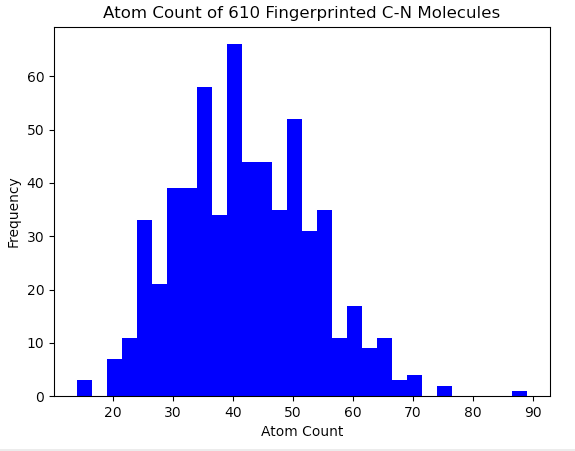
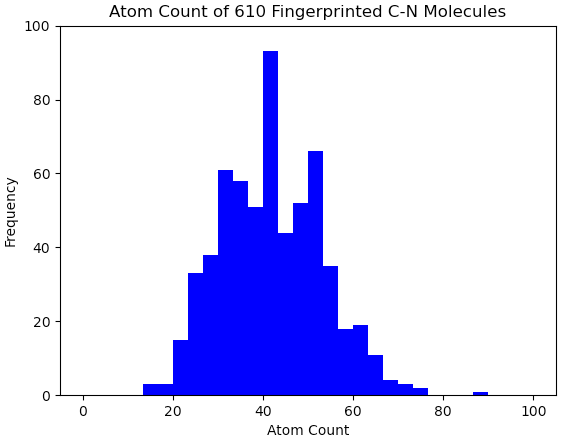
Fixed axes of histograms

Changed region(s): [[0.0, 0.0, 0.9757, 0.9888], [0.5617, 0.6689, 0.6504, 0.7562]]

diff --git a/examples/surrounding_cn_bonds/scripts/cn_histogram.py b/examples/surrounding_cn_bonds/scripts/cn_histogram.py
@@ -31,20 +31,23 @@ def generateHistogram():
     ifs = oechem.oemolistream(args.smiles_database)
     subs = oechem.OESubSearch("[#6:1]-[#7:2]")
     histogram = []
+    mol_count = 0
     for molecule in ifs.GetOEMols():
         mol, status = smiles2oemol(oechem.OEMolToSmiles(molecule))
         if (status):
             if subs.SingleMatch(mol):
+                mol_count = mol_count + 1
                 length = len([atom for atom in mol.GetAtoms()])
                 histogram.append(length)
     title = ""
     colour = "blue"
     if (args.fingerprinted.lower() == "t"):
-        title = f"Atom Count of Fingerprinted C-N Molecules"
+        title = f"Atom Count of {mol_count} Fingerprinted C-N Molecules"
     elif (args.fingerprinted.lower() == "f"):
-        title = f"Atom Count of Random C-N Molecules"
+        title = f"Atom Count of {mol_count} Random C-N Molecules"
         colour = "red"
-    plt.hist(histogram, color = colour, density=False, bins=30)
+    plt.hist(histogram, range=[0,100],color = colour, density=False, bins=30)
+    plt.ylim(0,100)
     plt.title(title)
     plt.ylabel("Frequency")
     plt.xlabel("Atom Count")
@@ -86,15 +89,7 @@ def optimizeMol(mol):
         conf.SetCoords(vecCoords)
         am1.CalcAM1(results, conf)
 
-    return mol
-
-def getBondLength(n1Coords, n2Coords):
-    """
-    Calculates and returns the bond length between 2 nitrogen atoms
-    """
-    return math.sqrt( (n2Coords[0] - n1Coords[0])**2 + 
-                     (n2Coords[1] - n1Coords[1])**2 + 
-                     (n2Coords[2] - n1Coords[2])**2 )      
+    return mol   
 
 if __name__ == "__main__":
     generateHistogram()
